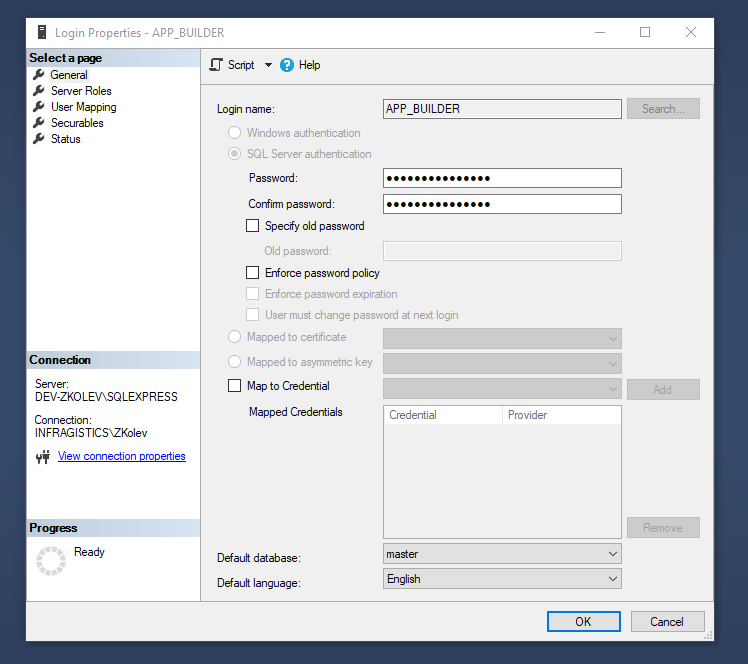
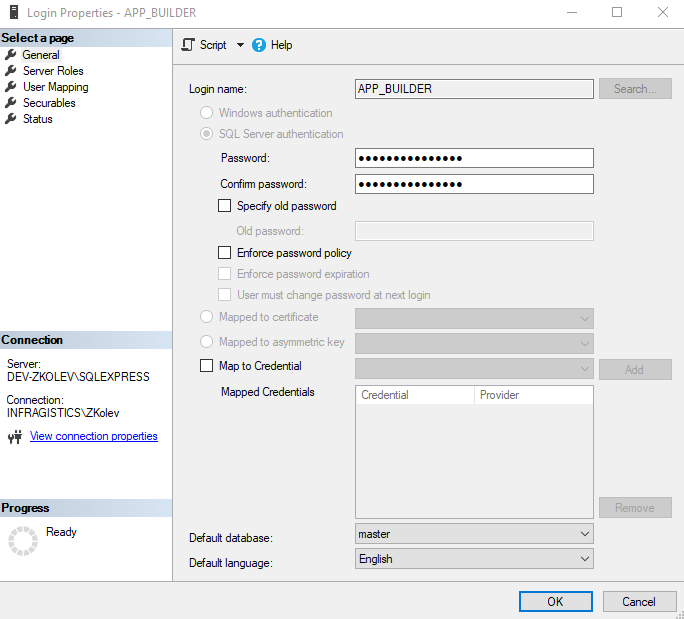
Add images and enhance look

Changed region(s): [[0.0, 0.0, 1.0, 1.0]]

diff --git a/en/on-prem-prerequisites-and-installation.md b/en/on-prem-prerequisites-and-installation.md
@@ -12,21 +12,21 @@ This section lists the prerequisites to install the On-Prem version of AppBuilde
 
 ### Install SQL Server
 
-1. Install [Sql Server](https://www.microsoft.com/en-us/sql-server/sql-server-downloads) ([direct link](https://go.microsoft.com/fwlink/?linkid=866658))
+1 - Install [Sql Server](https://www.microsoft.com/en-us/sql-server/sql-server-downloads) ([direct link](https://go.microsoft.com/fwlink/?linkid=866658))
 
-<img class="responsive-img" src="./images/on-premise-sql-express.png" />
+<img class="responsive-img" style="box-shadow: 5px -4px 13px 1px grey" src="./images/on-premise-sql-express.png" />
 <p style="text-align:center;">On-Premise Sql Express Installation</p>
 
 > Note: An On-prem server should have a real Sql Server not an embedded Sql Server Express of VS
 
-2. Enable tcp/ip - detailed explanation [here](https://docs.microsoft.com/en-us/sql/database-engine/configure-windows/enable-or-disable-a-server-network-protocol?view=sql-server-ver15#to-enable-a-server-network-protocol).
+2 - Enable tcp/ip - detailed explanation [here](https://docs.microsoft.com/en-us/sql/database-engine/configure-windows/enable-or-disable-a-server-network-protocol?view=sql-server-ver15#to-enable-a-server-network-protocol).
 
-<img class="responsive-img" src="./images/sql-server-config-manager.png" />
+<img class="responsive-img" style="box-shadow: 5px -4px 13px 1px grey" src="./images/sql-server-config-manager.png" />
 <p style="text-align:center;">SqlServer Config Manager</p>
 
-3. Add a new App_Builder user part of Sql Express. You can [install Sql Server Management Studio](https://docs.microsoft.com/en-us/sql/ssms/download-sql-server-management-studio-ssms?view=sql-server-ver15) and use it for that purpose.
+3 - Add a new App_Builder user part of Sql Express. You can [install Sql Server Management Studio](https://docs.microsoft.com/en-us/sql/ssms/download-sql-server-management-studio-ssms?view=sql-server-ver15) and use it for that purpose.
 
-<img class="responsive-img" src="./images/login-parameters.png" />
+<img class="responsive-img" style="box-shadow: 5px -4px 13px 1px grey" src="./images/login-parameters.png" />
 <p style="text-align:center;">Login Parameters Dialog</p>
 
 ### Install Docker
@@ -38,10 +38,10 @@ This section assumes that you already have docker and a sql server database inst
 
 ### First time installation
 
-1. Download the appbuilder.zip file located here (public URL)
-2. Extract the appbuilder.tar contained in the appbuilder.zip file. 
-3. Open a terminal or command prompt window at the extracted location.
-4. Load and verify the image.
+1 - Download the appbuilder.zip file located here (public URL)
+2 - Extract the appbuilder.tar contained in the appbuilder.zip file. 
+3 - Open a terminal or command prompt window at the extracted location.
+4 - Load and verify the image.
 
 Run:
 
@@ -59,60 +59,68 @@ docker images
 | --------:     | ----------------  | ----------------- | ---------------------------------------   |-----  |
 | appbuilder    | 1.0               | 2a05977e039b      |12 days ago                                |854MB  |
 
-5. Run the container:
+5 - Run the container:
 
 ```
 docker run --restart always -p 80:5000 -e "ConnectionStrings:AppBuilderConnection=Data Source=<your-sql-database-ip>,<your-sql-database-port>;Database=<your-sql-database-name>;User ID=<your-sql-database-user>;Password=<your-sql-database-password>;Connect Timeout=15;Encrypt=False;TrustServerCertificate=False;ApplicationIntent=ReadWrite;MultiSubnetFailover=False" -v <external-folder-for-logs>:/appbuilder/logs -v <external-folder-for-storage>:/appbuilder/storage --name appbuilder appbuilder:1.0
 ```
 
-6. Open your browser and type `http://localhost/`
+6 - Open your browser and type `http://localhost/`
 
 Note: or if you are using Docker Desktop, go to Containers/Apps, find your container and click `Open in browser` 
 
 
-<img class="responsive-img" src="./images/docker-apps.png" />
+<img class="responsive-img" style="box-shadow: 5px -4px 13px 1px grey" src="./images/docker-apps.png" />
 <p style="text-align:center;">Docker Containers/Apps</p>
 
 ### Updates
 
 
-1. Follow the first 4 steps of the first time installation  with the newly published zip file.
+1 - Follow the first 4 steps of the first time installation  with the newly published zip file.
 
-2. Verify that the new image has loaded correctly (the old image should be tagged as <none>)
+2 - Verify that the new image has loaded correctly (the old image should be tagged as <none>)
 
-   -     docker images
+```
+docker images
+```
 
-    | REPOSITORY| TAG       | IMAGE ID| CREATED        |SIZE
-    | --------: | ---------------- | ----------------- | --------------------------------------- |----- |
-    | appbuilder          | 1.0          | 27ff4c1079ac |43 hours ago       |932MB
-    | <none> | <none>           | 2a05977e039b      |12 days ago      |854MB                    
+
+| REPOSITORY        | TAG       | IMAGE ID          | CREATED       |SIZE   |
+| --------:         | --------- | ----------------- | ------------- |-----  |
+| appbuilder        | 1.0       | 27ff4c1079ac      | 43 hours ago  |932MB  |
+| <none>            | <none>    | 2a05977e039b      | 12 days ago   |854MB  |
         
-3. Stop the container
+3 - Stop the container
 
 ```
 docker stop appbuilder
 ```
 
-4. Remove the container
+4 - Remove the container
 
 ```
 docker rm appbuilder
 ```
 
-5. Run the container with the same command as the one used in step 5. of the first time installation.
+5 - Run the container with the same command as the one used in step 5. of the first time installation.
 
 
 ## Activation
 This section assumes that you already installed the On-Prem instance and it is now up and running.
 
-
-
 When the server is first started a prompt dialog will provide you with _Installation ID_ and a _Authentication key_ will be requested. Send this Installation ID to our [Sales department](https://www.infragistics.com/about-us/contact-us#sales) based on your region and we will provide you with _Authentication key_ to activate the server.
 
 
+<img class="responsive-img" style="box-shadow: 5px -4px 13px 1px grey" src="./images/activate-app-builder.png" />
+<p style="text-align:center;">Activate App Builder</p>
 
 > [!NOTE]
 > You will be warn through the UI thirty days before the expiration of your key.
+
+
+## Troubleshooting
+### Docker Desktop on Windows
+[Docker Desktop on Windows is not starting automatically without Login to Windows machine](https://github.com/docker/for-win/issues/6670) - Docker team doesn't  recommend Docker Desktop for _production_ workloads. You should use Docker on a Linux box, or Docker for Windows Server if you want Windows containers.
 
 
 ## Additional Resources

diff --git a/en/getting-started.md b/en/getting-started.md
@@ -72,7 +72,10 @@ Some businesses are part of highly regulated industries. Mostly for security rea
 
 On-premise applications are reliable, secure, and allow enterprises to maintain a level of control that the cloud often cannot.
 
-[GIF]
+Check out this topic for [more technical details on how to install](on-prem-prerequisites-and-installation.md) the On-Prem solution.
+
+<img class="responsive-img" src="./images/on-prem-ab-demo.gif" />
+<p style="text-align:center;">On-Premise version</p>
 
 ## Running the app locally
 
